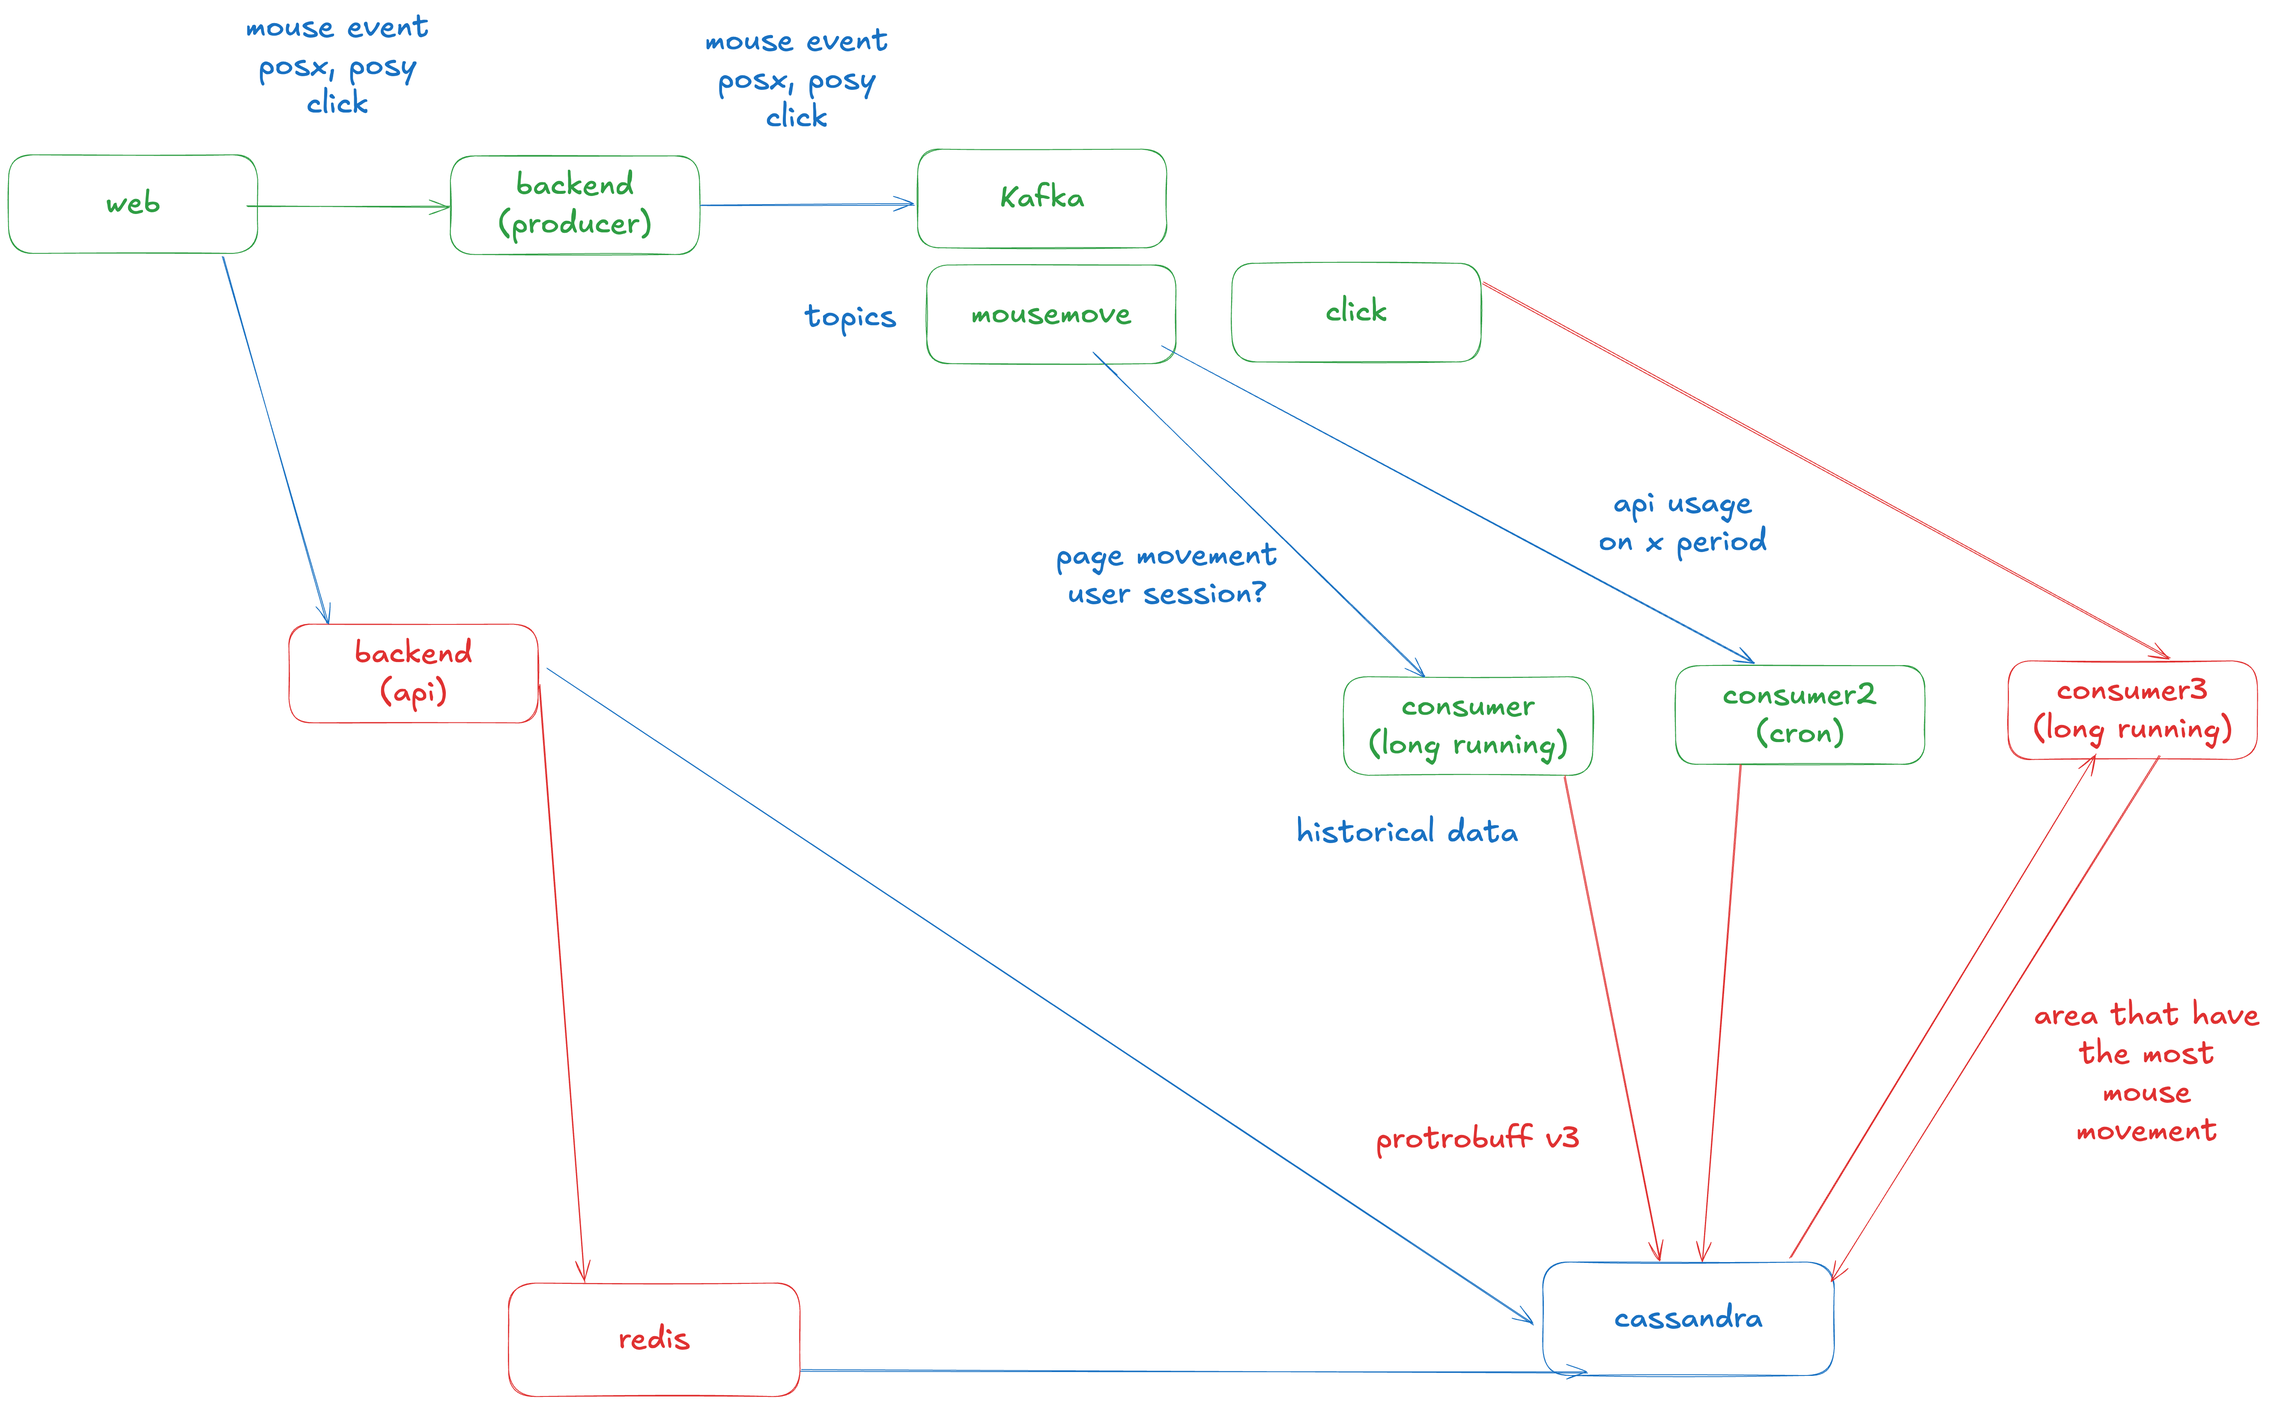
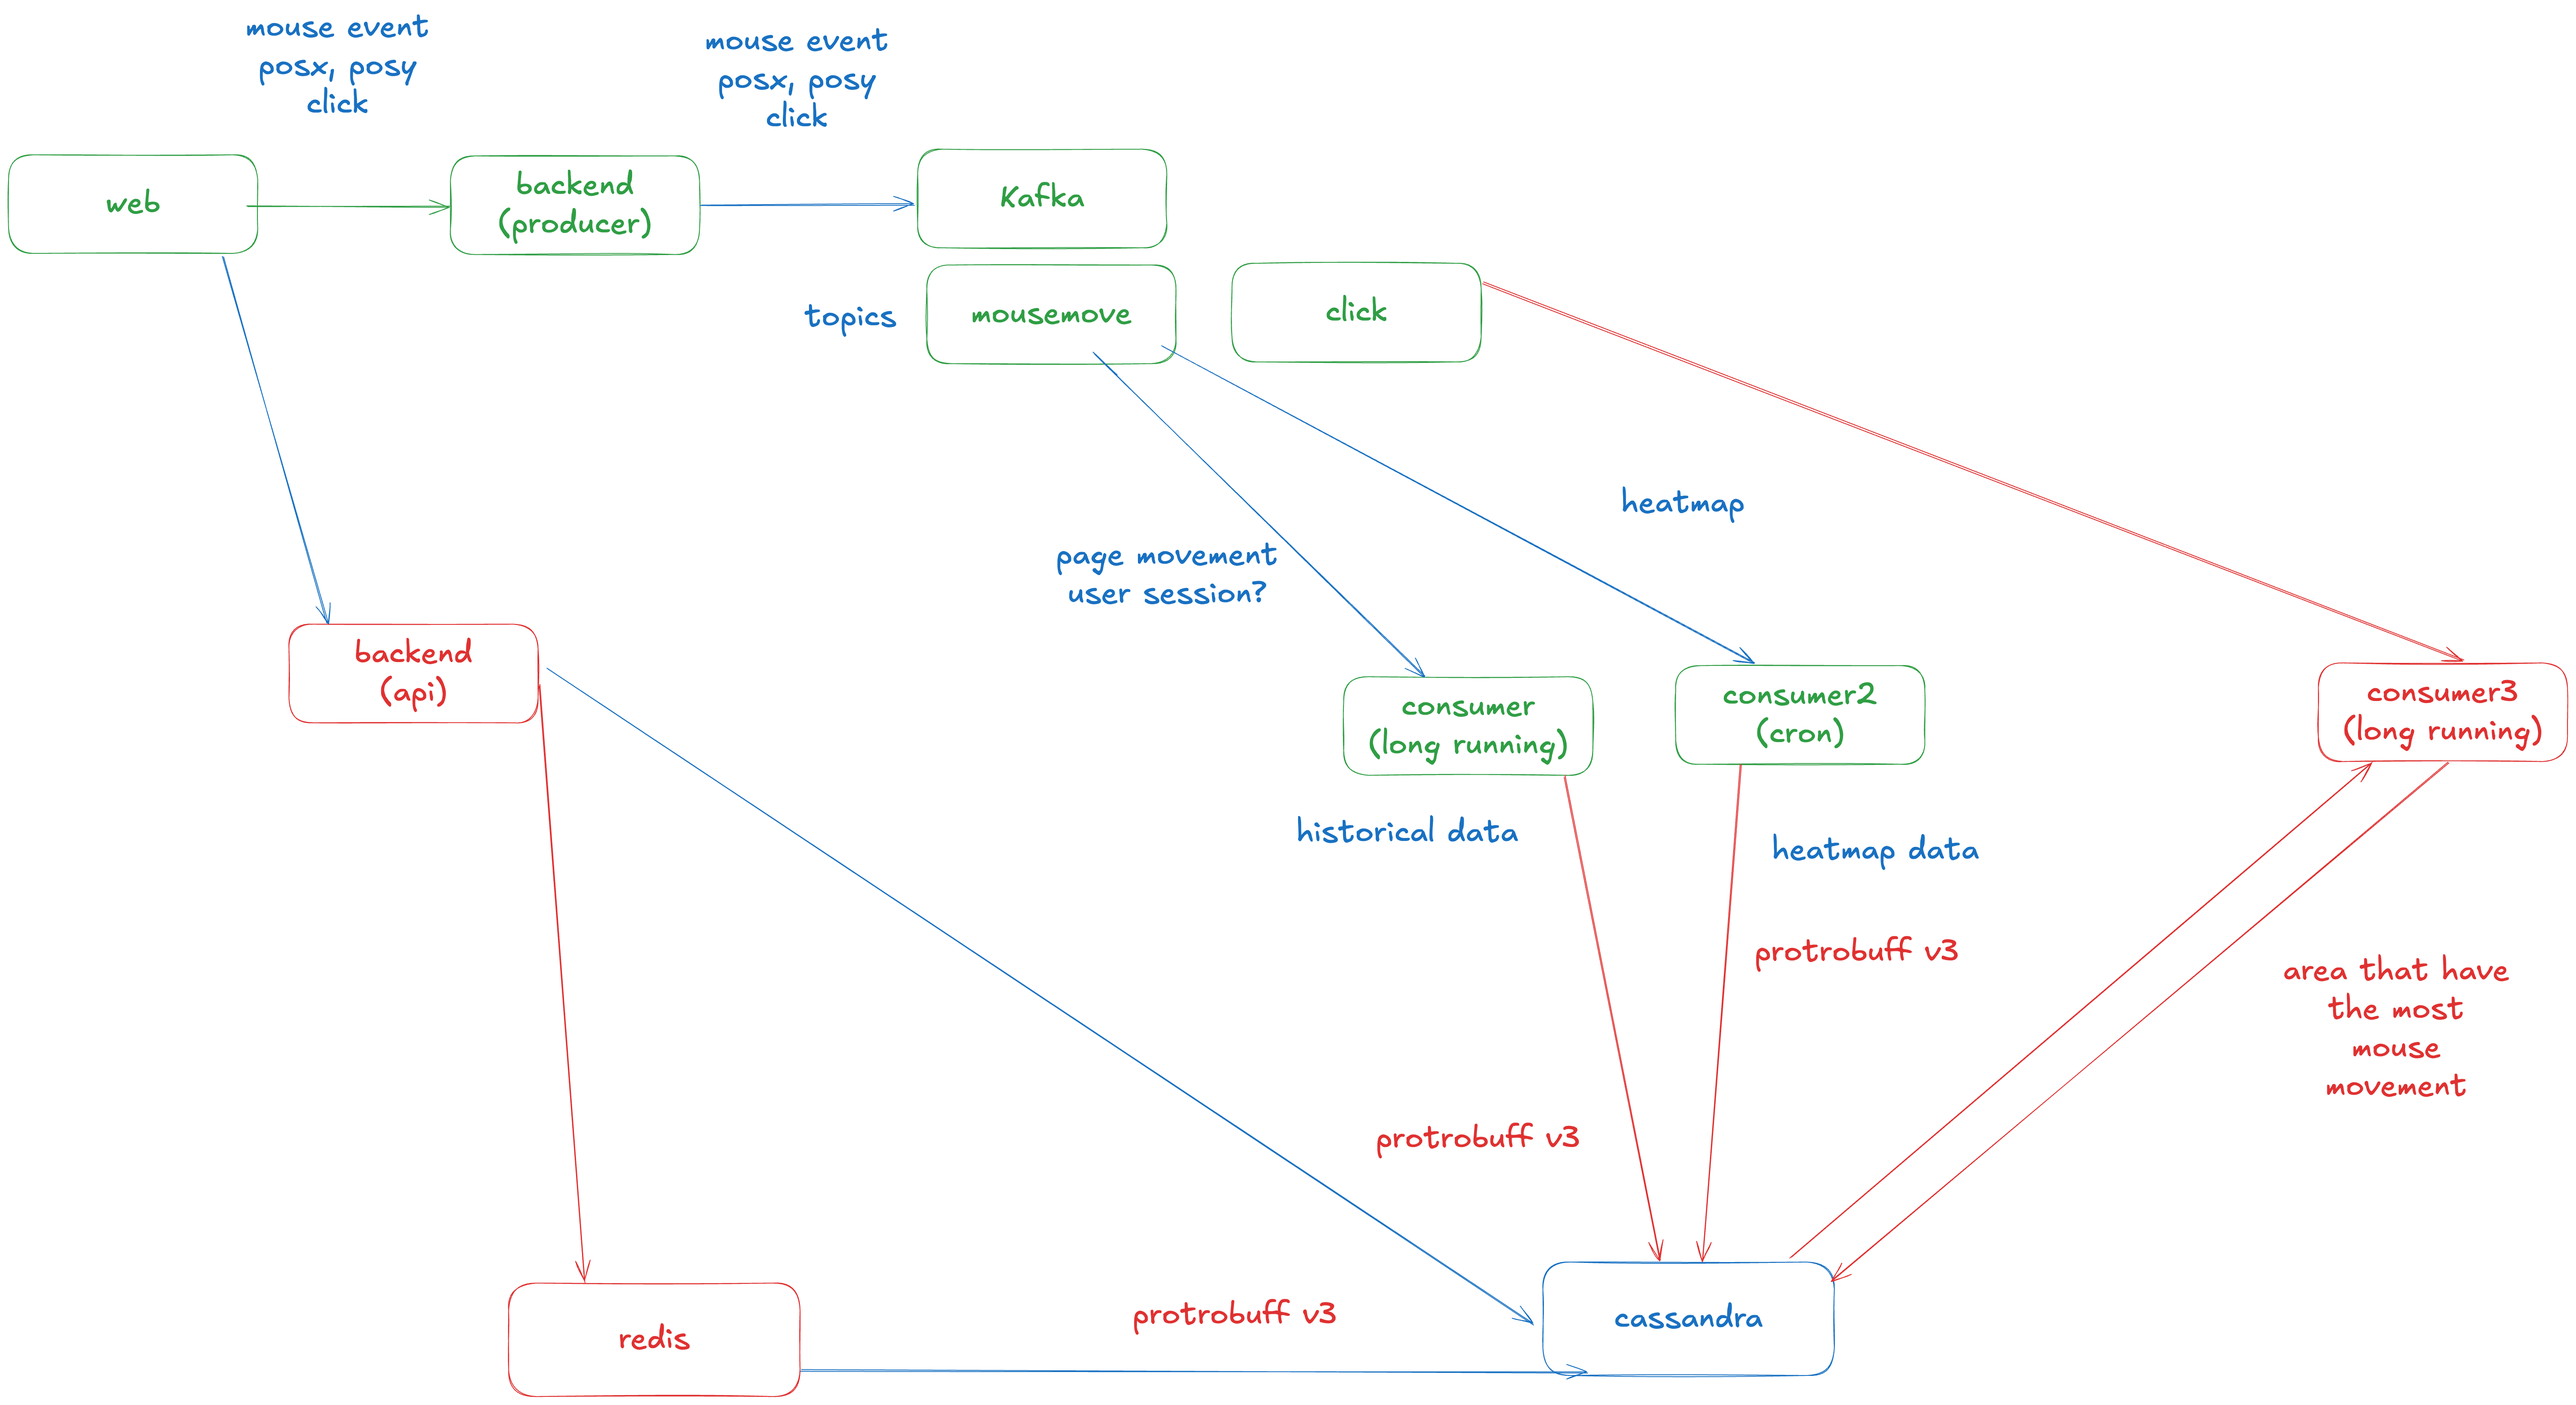
Fix infra

diff --git a/Excercise/Day04/README4.md b/Excercise/Day04/README4.md
@@ -1,3 +1,32 @@
-web-> backend-> kafka[xxx,yyy]
-kafaka->consumer->watch[xxx]
-kafaka->consumer2(kotlin)->cron[yyy]->cassandra
+```mermaid
+sequenceDiagram
+    participant WebClient as WC
+    participant BackendAPI as BackendAPI
+    participant Kafka as Kafka
+    participant Consumer1 as Consumer1
+    participant Consumer2 as Consumer2
+    participant Cassandra as Cassandra
+    participant Redis as Redis
+    participant Backend2 as Backend2
+
+    %% Flow 1: Mouse Events & Heatmap Calculation
+    WC->>BackendAPI: Send mouse event (x, y, timestamp)
+    BackendAPI->>Kafka: Publish mouse event to Kafka
+
+    Kafka->>Consumer1: Consume mouse event
+    Consumer1->>Cassandra: Save historical data in Cassandra
+
+    Kafka->>Consumer2: Consume mouse event
+    Consumer2->>Cassandra: Calculate heatmap every 5 mins
+    Consumer2->>Cassandra: Save heatmap data to Cassandra
+
+    %% Flow 2: Viewing Heatmap Data
+    WC->>Backend2: Request heatmap data (from Redis first)
+    Backend2->>Redis: Query Redis for heatmap data
+    Redis->>Backend2: Return heatmap data (if exists)
+    Backend2->>WC: Return heatmap data to Web Client (from Redis)
+
+    Backend2->>Redis: If not found in Redis, query Cassandra
+    Cassandra->>Backend2: Return heatmap data from Cassandra
+    Backend2->>WC: Return heatmap data to Web Client (from Cassandra)
+```
